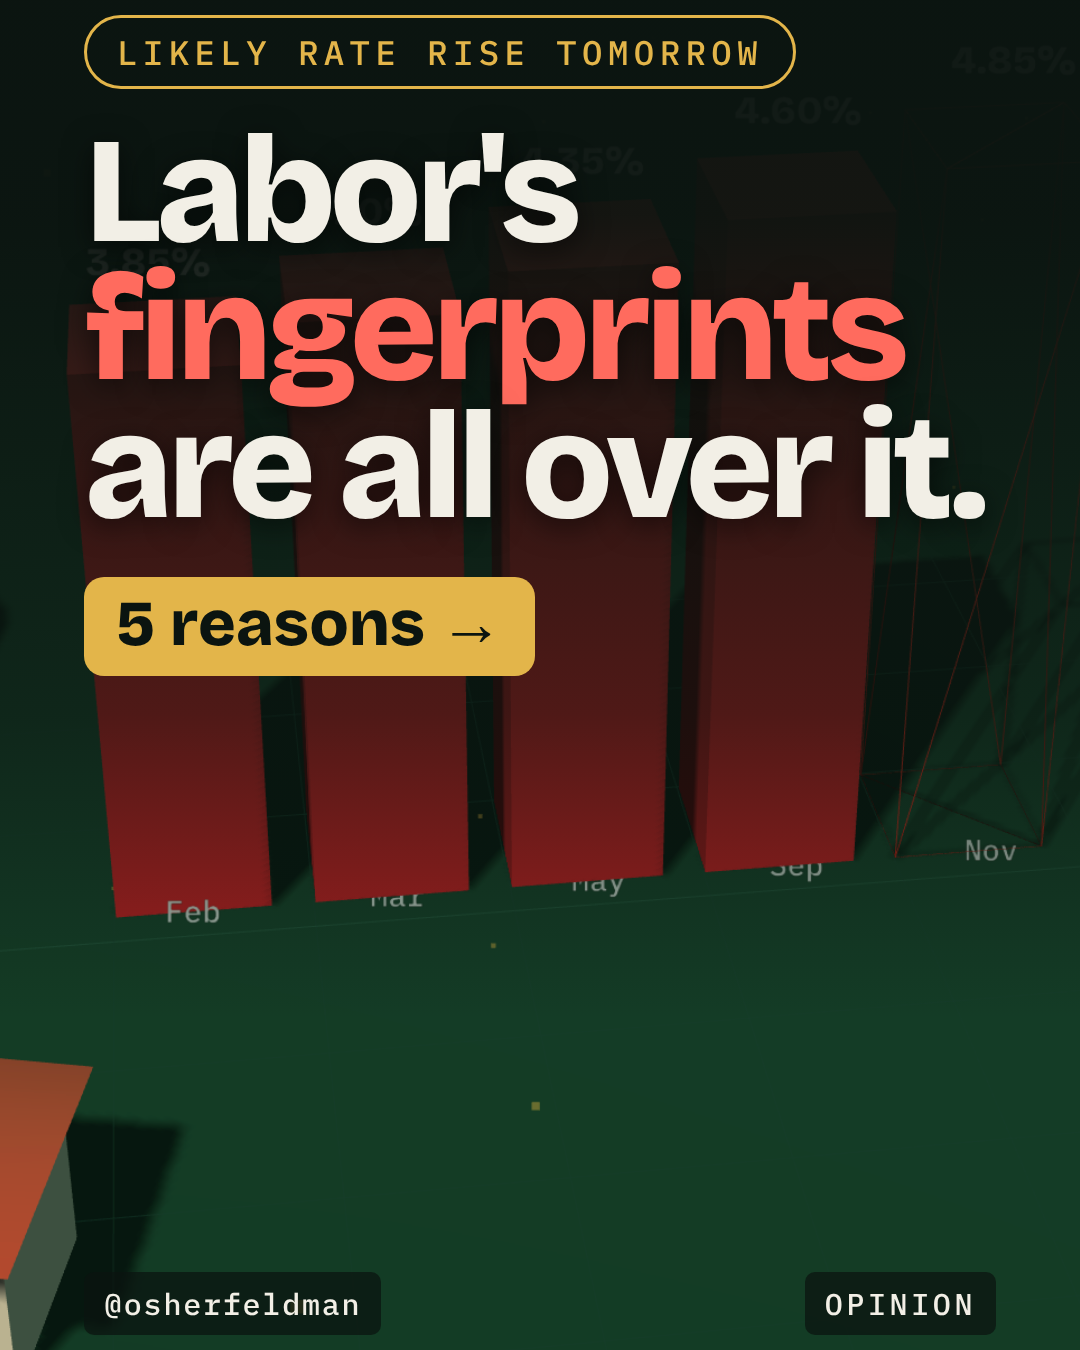
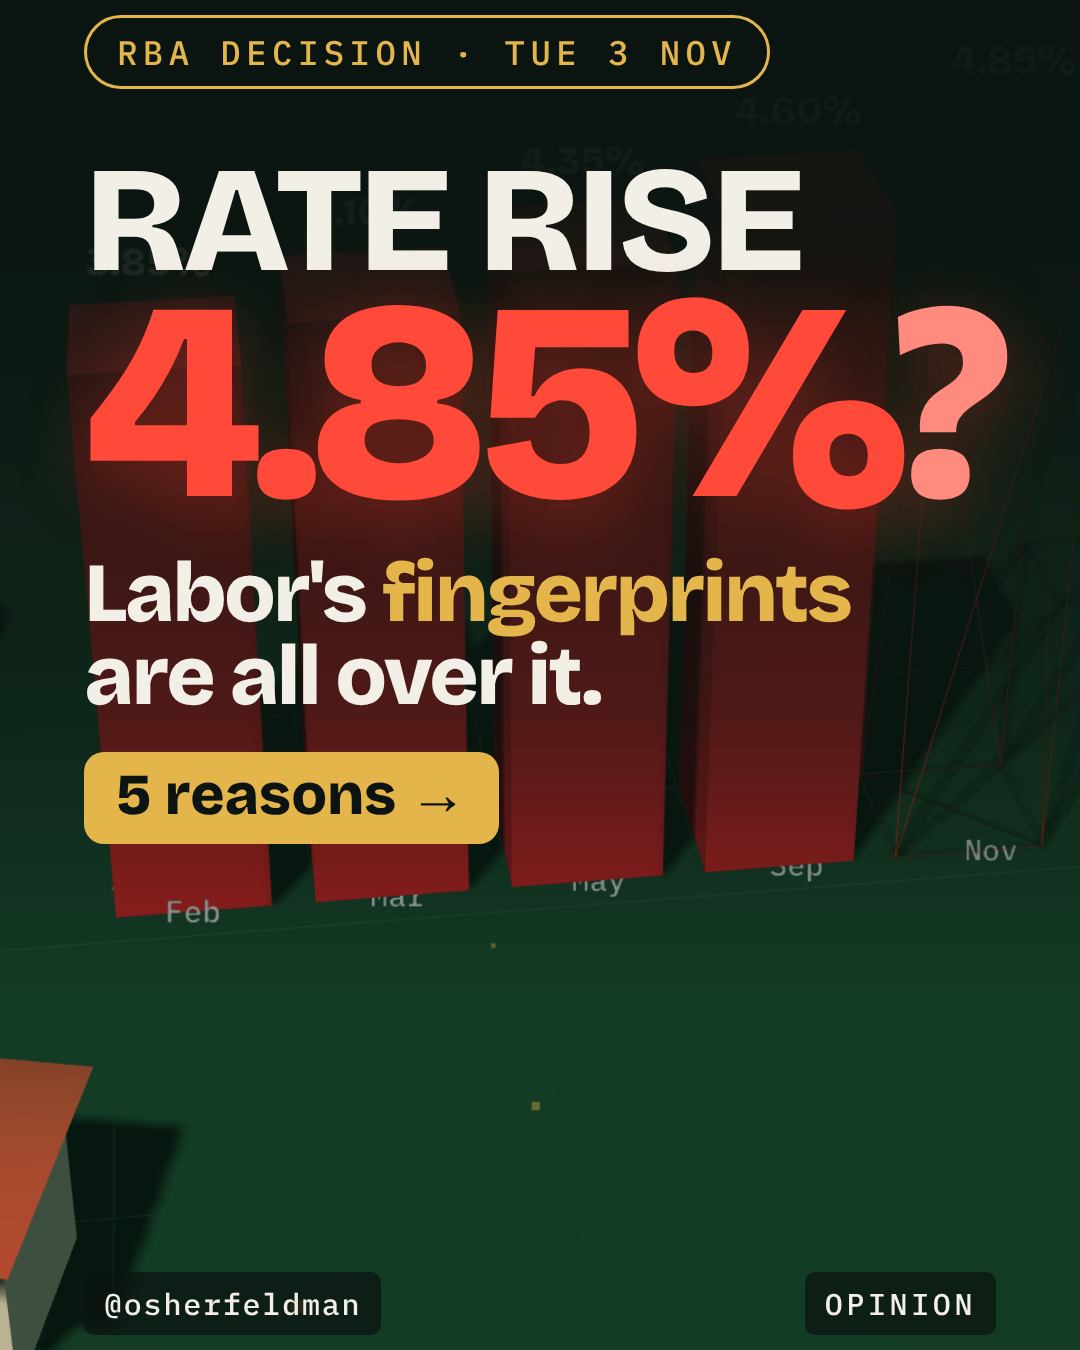
Rates cover: make the rate rise the hero
Claude-Session: https://claude.ai/code/session_01Sgrt9V1fmYhj6jZ8Z8u2QD

Changed region(s): [[0.0611, 0.0933, 0.9472, 0.5289], [0.0611, 0.56, 0.4889, 0.6222], [0.0917, 0.0, 0.7333, 0.0622]]

diff --git a/rates/cover.js b/rates/cover.js
@@ -16,12 +16,13 @@ const html = `<!doctype html><meta charset="utf-8"><style>${css}
 .ways{font-weight:800;font-size:128px;line-height:.86;letter-spacing:-.03em;padding-bottom:10px}
 h1{margin:34px 0 0;font-weight:800;font-size:104px;line-height:.92;letter-spacing:-.03em;text-shadow:0 6px 30px rgba(0,0,0,.6)}
 h1 em{font-style:normal;color:#e3b54a}
-.hk{font-size:150px;line-height:.92;margin:0;letter-spacing:-.04em}.wrap .tag{margin-bottom:34px}.hk.r{color:#ff6b5e}.five-r{display:inline-block;margin-top:40px;font-weight:800;font-size:64px;color:#0b1410;background:#e3b54a;border-radius:20px;padding:8px 32px 14px}
+.hk{font-size:150px;line-height:.92;margin:0;letter-spacing:-.04em}.wrap .tag{margin-bottom:34px}.hk.r{color:#ff6b5e}.rr{font-weight:800;font-size:150px;line-height:.9;letter-spacing:-.03em;margin-top:30px;text-transform:uppercase}.rate{font-weight:800;font-size:282px;line-height:.82;letter-spacing:-.06em;color:#ff4a3a;text-shadow:0 20px 70px rgba(255,60,40,.35)}.rate span{color:#ff8a7e}.fp{font-weight:800;font-size:84px;line-height:.98;letter-spacing:-.03em;margin-top:34px;max-width:900px}.fp em{font-style:normal;color:#e3b54a}.five-r{display:inline-block;margin-top:34px;font-weight:800;font-size:58px;color:#0b1410;background:#e3b54a;border-radius:20px;padding:8px 32px 14px}
 .foot{position:absolute;left:84px;right:84px;bottom:300px;display:flex;justify-content:space-between;font:500 30px "IBM Plex Mono",monospace;letter-spacing:.12em;text-transform:uppercase;color:#f2efe6}
 .foot span{background:rgba(11,20,16,.75);padding:12px 20px;border-radius:10px}
 </style><div class="bg"></div><div class="shade"></div>
-<div class="wrap"><div class="tag">Likely rate rise tomorrow</div>
-<h1 class="hk">Labor's</h1><h1 class="hk r">fingerprints</h1><h1 class="hk">are all over it.</h1>
+<div class="wrap"><div class="tag">RBA decision · Tue 3 Nov</div>
+<div class="rr">Rate rise</div><div class="rate">4.85%<span>?</span></div>
+<div class="fp">Labor's <em>fingerprints</em> are all over it.</div>
 <div class="five-r">5 reasons →</div></div>
 <div class="foot"><span style="text-transform:none;letter-spacing:.06em">@osherfeldman</span><span>Opinion</span></div>`;
 fs.writeFileSync(S + '/cover.html', html);
